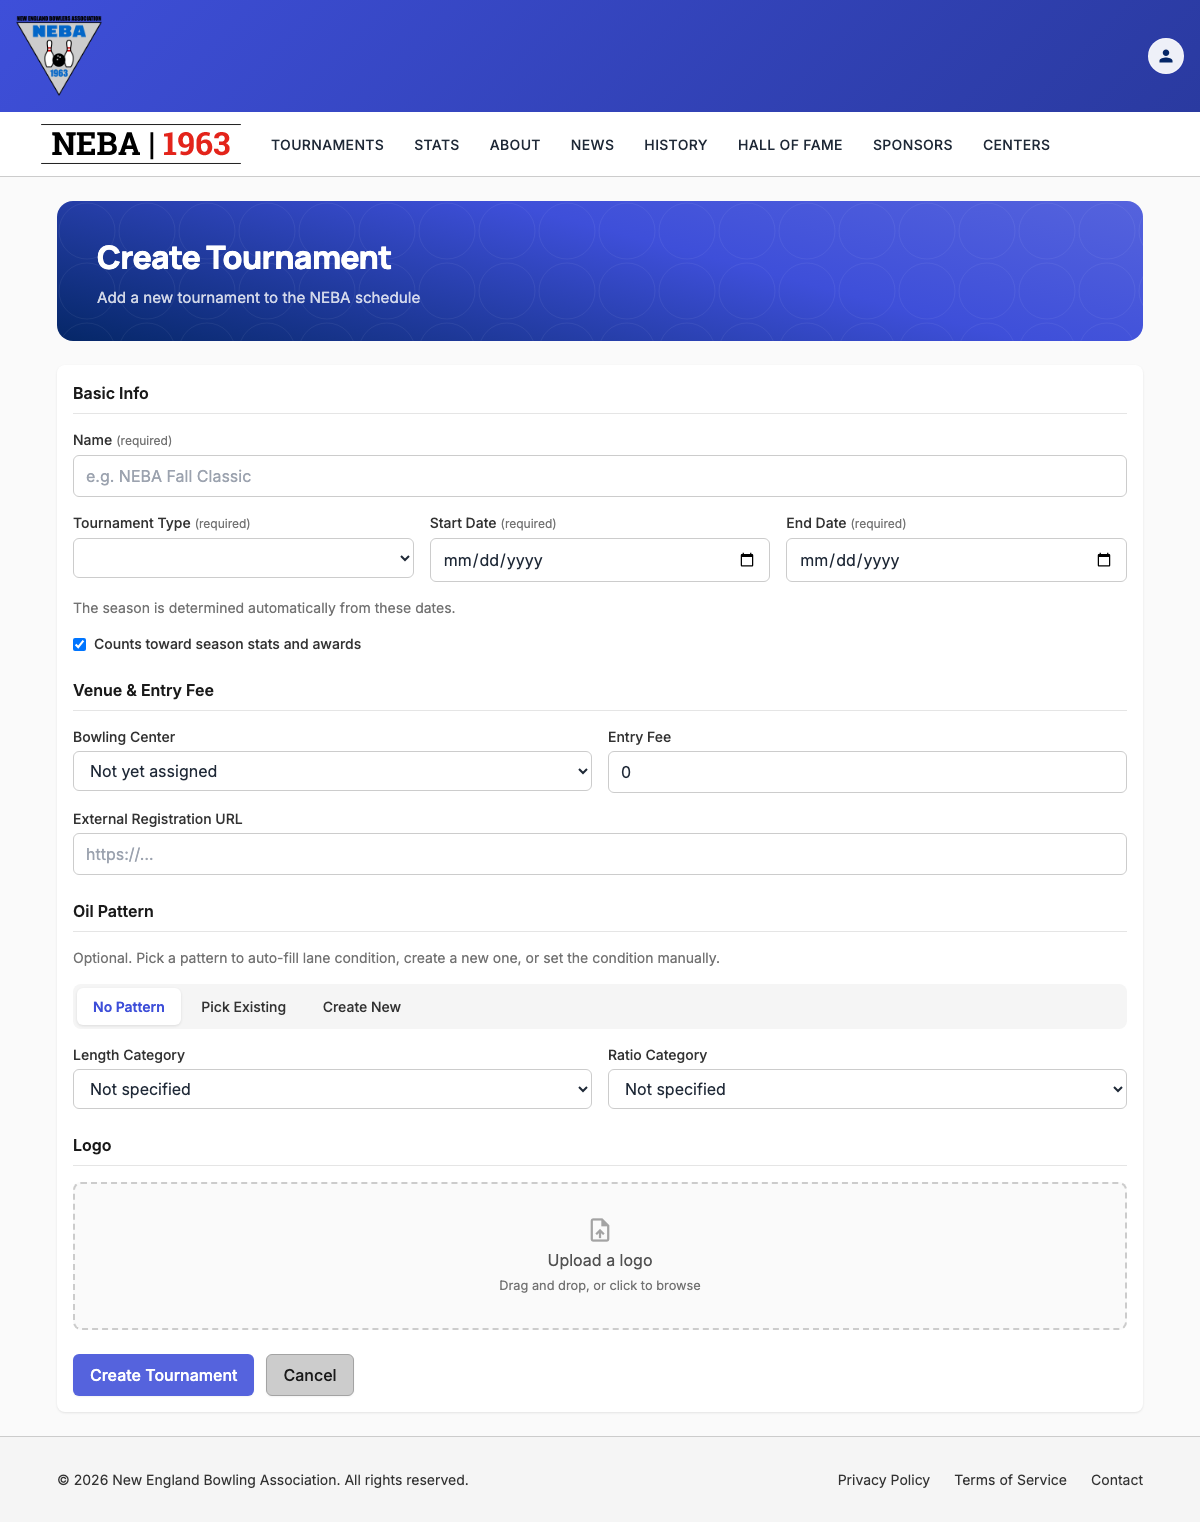
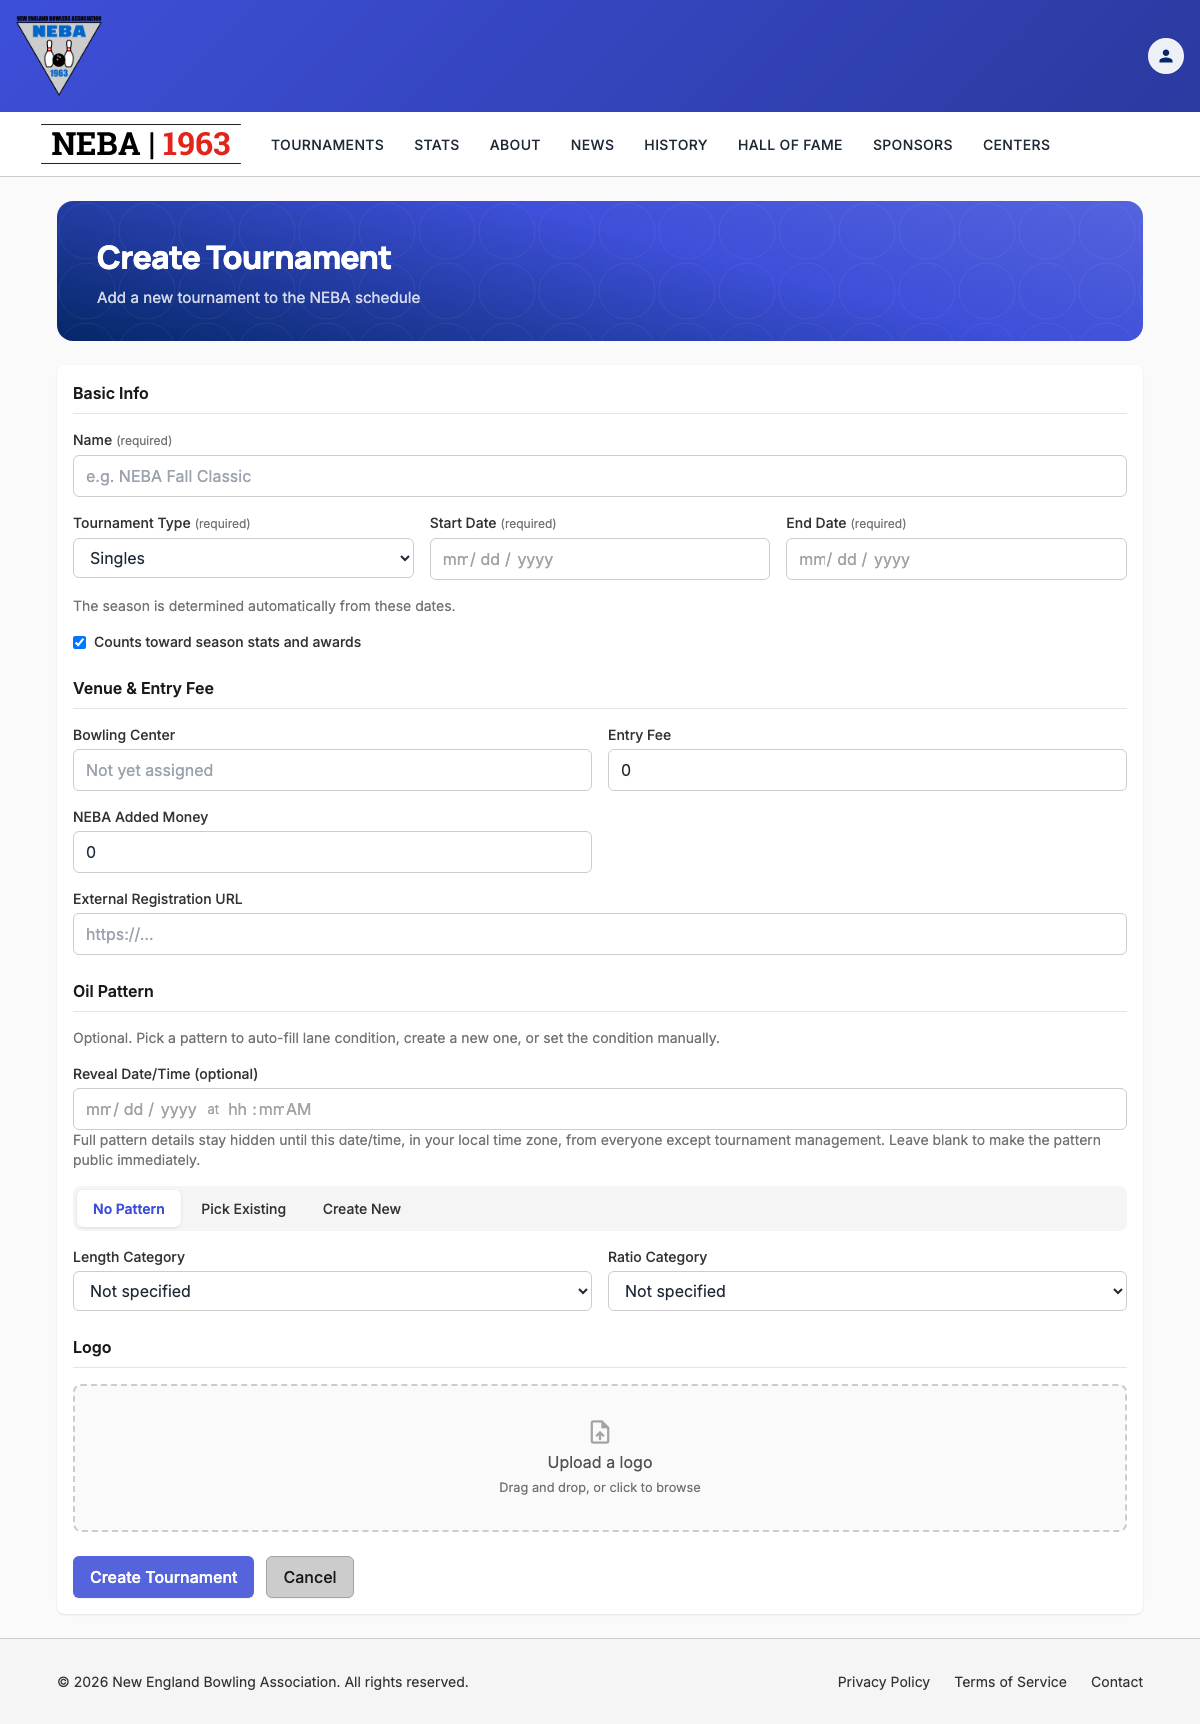
create tournament doc update

diff --git a/docs/help/create-tournament.md b/docs/help/create-tournament.md
@@ -15,8 +15,8 @@ You need the `Tournaments.CreateTournament` permission, enforced via the dynamic
 
 3. On the **Create Tournament** page, fill in:
    - **Basic Info** — **Name** (required), **Tournament Type**, **Start Date**, and **End Date** (all required — the season is determined automatically from the dates, so the dates must fall entirely within one already-configured season), and a **Counts toward season stats and awards** checkbox (checked by default).
-   - **Venue & Entry Fee** — an optional **Bowling Center** (defaults to "Not yet assigned") and required **Entry Fee** (zero or greater), plus an optional **External Registration URL** (must be a full address, e.g. `https://example.com`, if provided).
-   - **Oil Pattern** — optional. Choose one of three modes with the segmented control: **No Pattern** (optionally set Length/Ratio category manually), **Pick Existing** (choose a pattern from NEBA's pattern library — its length, ratio, and categories display once selected), or **Create New** (enter a new pattern's name, Kegel ID, length, volume, and ratios, then click **Add Pattern** to save it to the library and select it immediately). You can provide either an existing/new oil pattern or manual categories, not both.
+   - **Venue & Entry Fee** — an optional **Bowling Center** (defaults to "Not yet assigned"), required **Entry Fee** (zero or greater), and **NEBA Added Money** (zero or greater, defaults to 0 — money NEBA itself adds to the prize fund, shown to bowlers as "Added money" instead of the entry fee whenever it's set), plus an optional **External Registration URL** (must be a full address, e.g. `https://example.com`, if provided).
+   - **Oil Pattern** — optional. Set an optional **Reveal Date/Time** (in your local time zone) to keep the pattern's full details hidden from everyone except tournament management until that moment — leave it blank to make the pattern public immediately. Then choose one of three modes with the segmented control: **No Pattern** (optionally set Length/Ratio category manually), **Pick Existing** (choose a pattern from NEBA's pattern library — its length, ratio, and categories display once selected), or **Create New** (enter a new pattern's name, Kegel ID, length, volume, and ratios, then click **Add Pattern** to save it to the library and select it immediately). You can provide either an existing/new oil pattern or manual categories, not both.
    - **Logo** — optional. Drag and drop, or click to browse for, a single image (up to 5 MB) to use as the tournament's logo.
 
    ![Blank Create Tournament form](images/create-tournament/create-form.png)
@@ -40,7 +40,7 @@ You need the `Tournaments.CreateTournament` permission, enforced via the dynamic
 | "No season is configured that contains these tournament dates." | The Start Date/End Date range doesn't fall entirely within any existing season. Adjust the dates, or ask an admin to configure a season covering that range. |
 | "The specified bowling center was not found." | The selected bowling center no longer exists or its certification number is invalid. Choose a different center or leave it unassigned. |
 | "The specified oil pattern was not found." | The picked oil pattern no longer exists in the library. Re-select a pattern, create a new one, or switch to manual categories/No Pattern. |
-| "Name is required.", "Tournament type is required.", "Start date is required.", "End date is required.", or "Entry fee must be zero or greater." | A required field was left blank or invalid. Fill it in and try again. |
+| "Name is required.", "Tournament type is required.", "Start date is required.", "End date is required.", "Entry fee must be zero or greater.", or "NEBA added money must be zero or greater." | A required field was left blank or invalid. Fill it in and try again. |
 | A validation message about the external registration URL | The URL isn't a valid, absolute address (e.g. missing `https://`). Correct it and try again. |
 | A red error status next to the logo upload (e.g. "File exceeds the maximum allowed size of 5 MB." / "Upload failed.") | The logo failed to upload — the rest of the form is unaffected. Remove it and try again with a smaller or different file. |
 | Any other "Unable to Create Tournament" message | The server rejected the request; the message describes the specific problem. The tournament was not created — correct the issue and submit again. |
